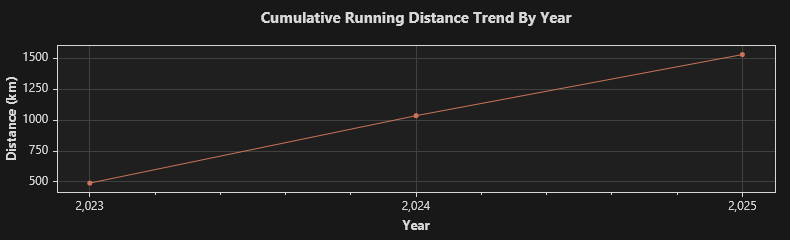
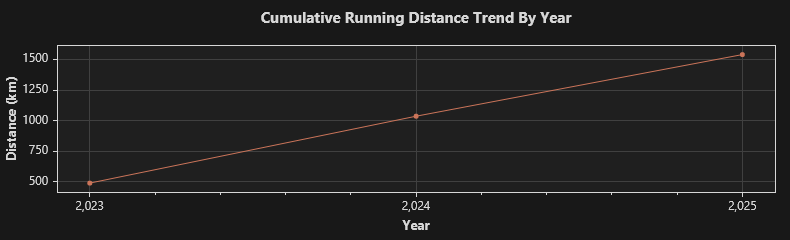
2025/9/17 跑步 8.01 公里

diff --git a/trend.md b/trend.md
@@ -1,4 +1,4 @@
-### Total: 257 days, 1531.08 km.
+### Total: 258 days, 1539.09 km.
 
 
 ![Monthly](https://github.com/prime167/MyRunningLog/blob/main/data/CumulativeTrendByMonth.png)
